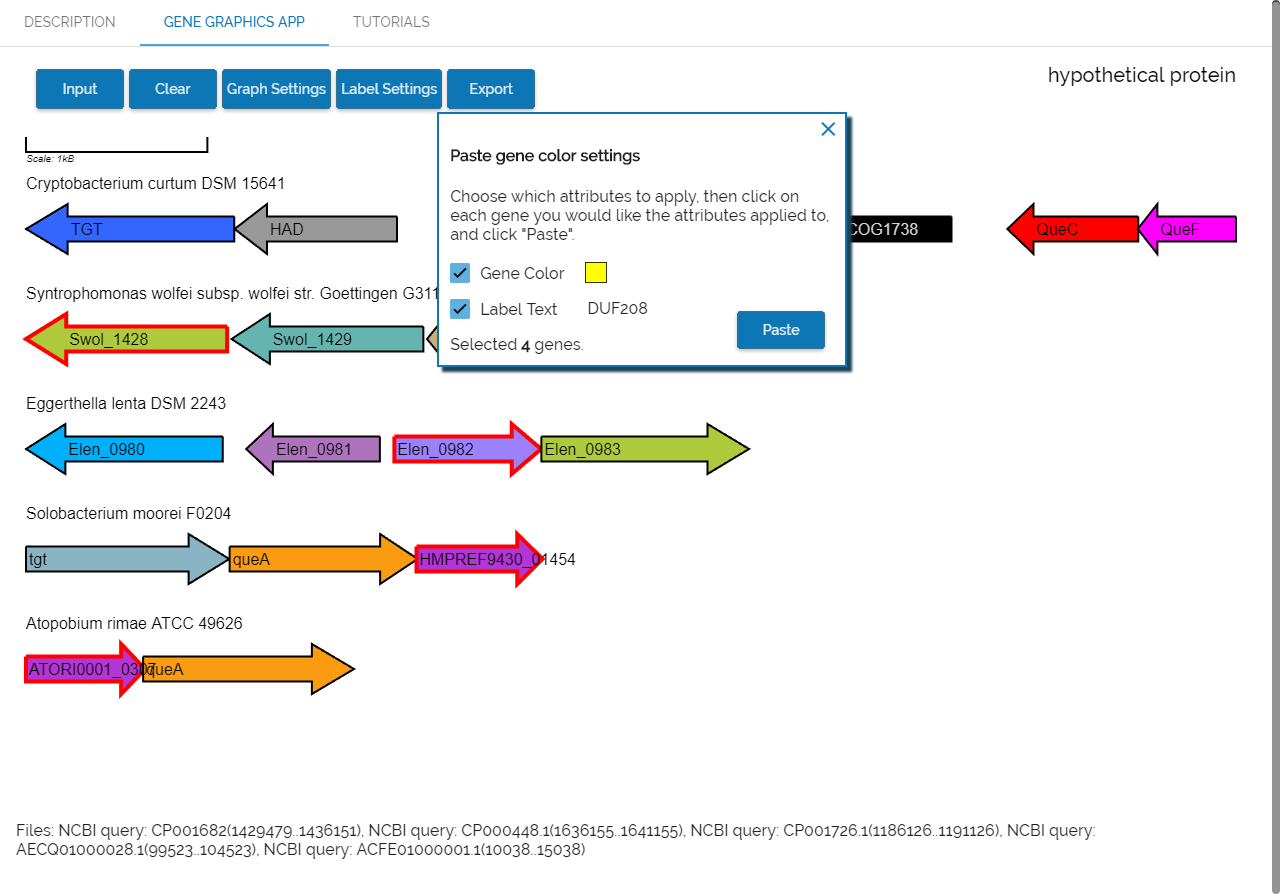
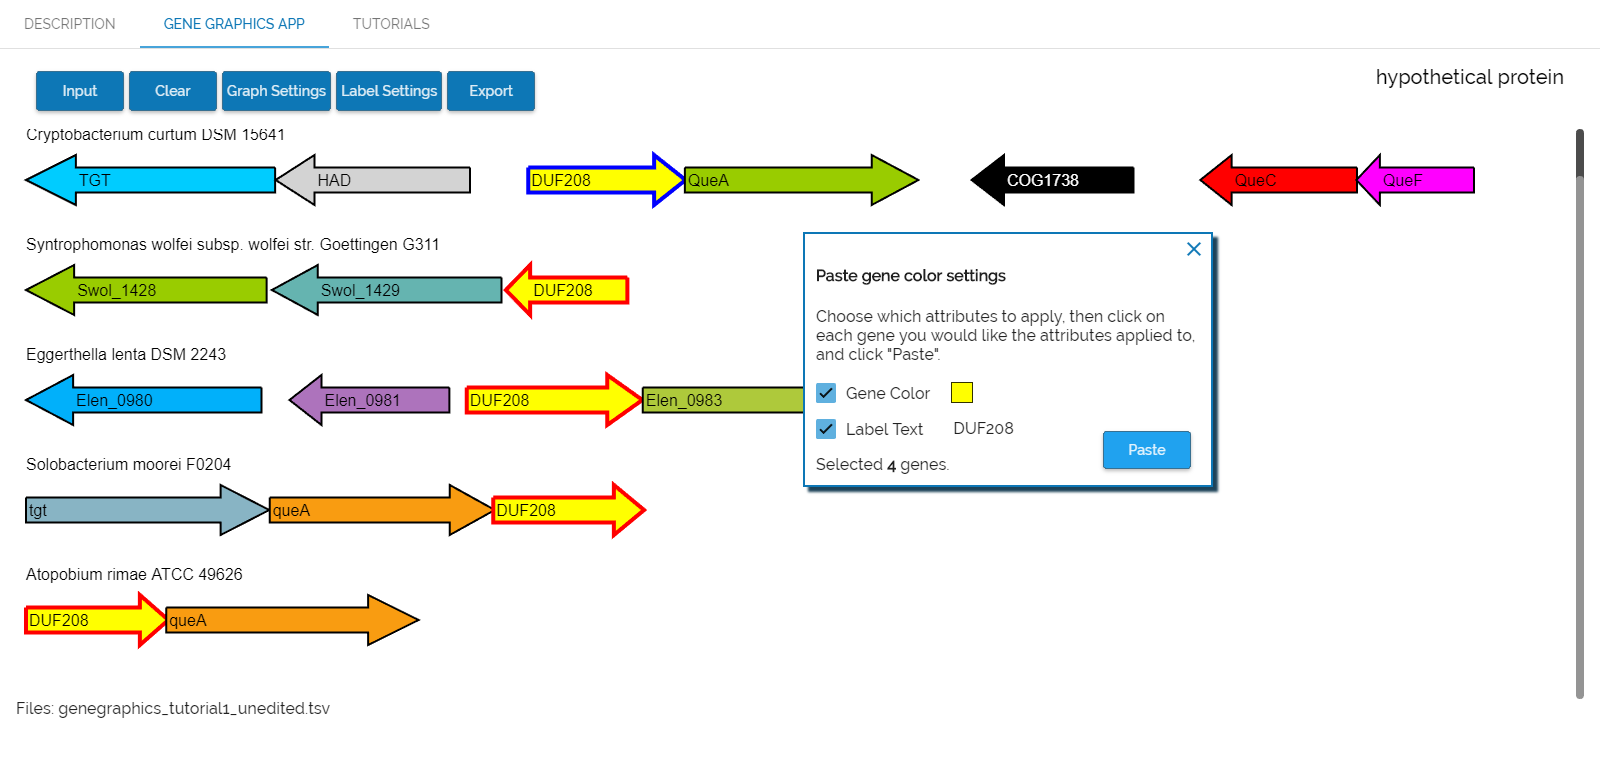
Changes to tutorial 1

Changed region(s): [[0.0, 0.0, 1.0, 1.0], [0.0, 0.9039, 0.8438, 0.9662], [0.2812, 0.0, 0.3438, 0.0312]]

diff --git a/views/tutorials.html b/views/tutorials.html
@@ -1,8 +1,8 @@
 <md-content class="md-padding">
 
 <h1 class="md-display-2">tutorials</h1>
-<p class="tutDesc"><b><a href="tutorial1.html" target="_blank">Tutorial 1: DUF209</a></b><br>
-In this tutorial, you will reproduce a published image that shows DUF209 genes.  You will fetch data from the NCBI website using the tool, edit, and learn how to quickly manipulate an image to your design.</p>
+<p class="tutDesc"><b><a href="tutorial1.html" target="_blank">Tutorial 1: DUF208</a></b><br>
+In this tutorial, you will reproduce a published image that shows DUF208 genes.  You will fetch data from the NCBI website using the tool, edit, and learn how to quickly manipulate an image to your design.</p>
 <p class="tutDesc"><b><a href="tutorial2.html" target="_blank">Tutorial 2: Genbank File</a></b><br>
 In this tutorial, you will find a genome on NCBI Genbank and use it to create an image.</p>
 <p class="tutDesc"><b><a href="tutorial3.html" target="_blank">Tutorial 3: DUF89 Subfamily I Neighborhoods</a></b><br>

diff --git a/tutorial1.html b/tutorial1.html
@@ -106,7 +106,7 @@
 		<div class="bgcolored">
 			<p>Finally, select each DUF208 gene to bold the text for that gene.  This must be done individually.</p>
 		</div>
-		<img src="images/tutorial1/tutorial1_21.png">
+		<img src="images/tutorial1/tutorial1_20.png">
 		<div class="bgcolored">
 			<p>When you are satisfied with the image, use Export to download a SVG or PNG of the image.</p>
 		</div>
